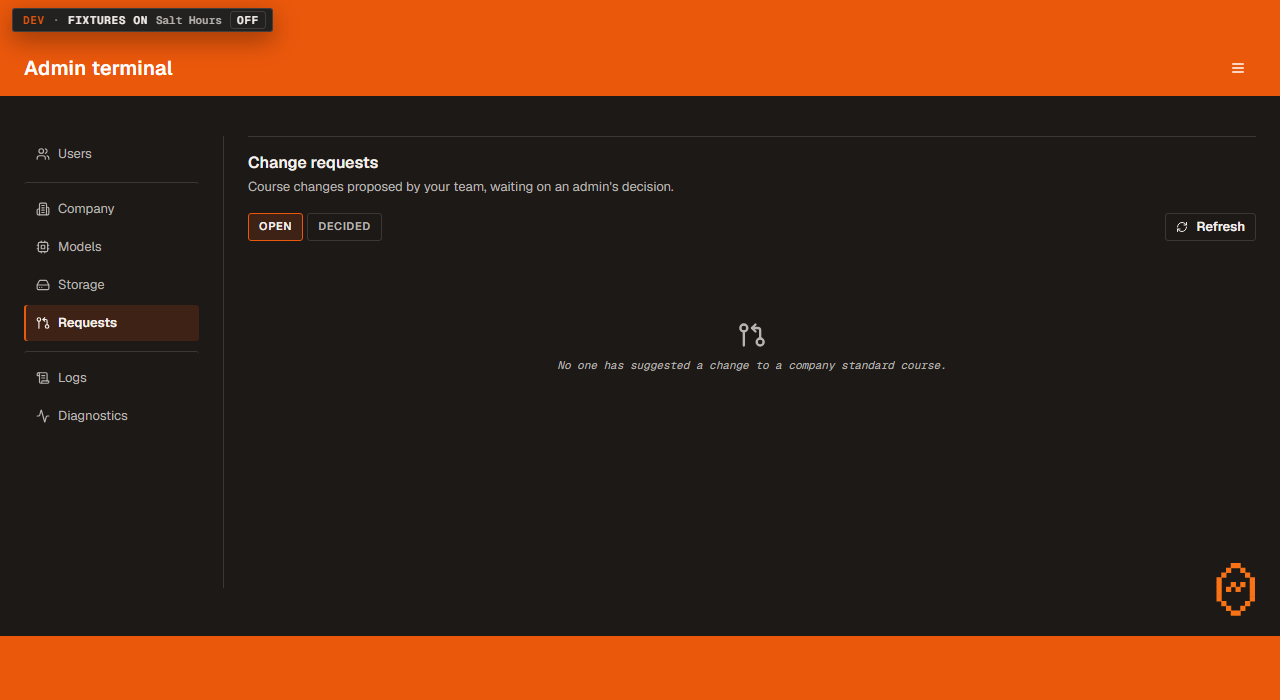
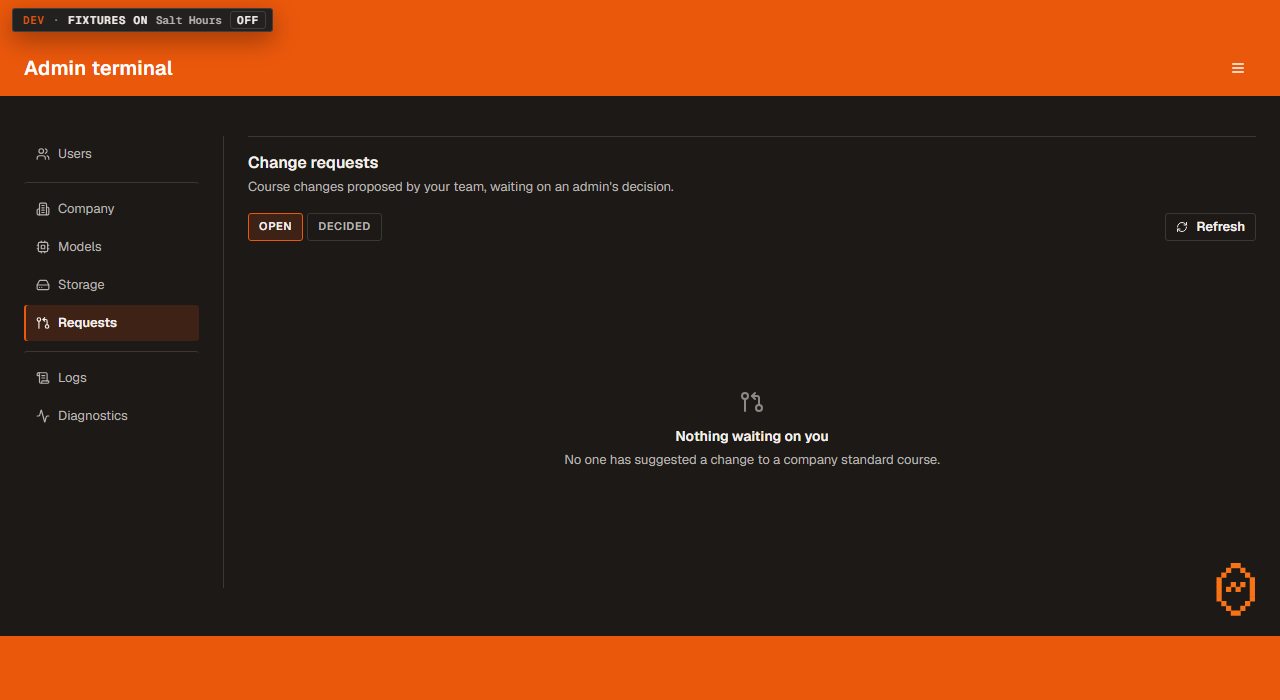
docs(c3b): round two in the hand-off, the kit requests, and the closing state
Round two's section says the useful thing plainly: the worst defect of the
session was found inside a fix, sitting under four green tests, and the
walkthrough was telling Audrey the opposite in as many words. It also records
the fifteen corrections it confirmed as good with measurements, which is as
much use to the next session as the findings.

Three kit requests come out of it, each with its one-line fix: `.ui-th-label`
cannot ellipsise because `overflow` does not apply to an inline box, so a
clipped header reads as a rendering fault; a small `Select` loses its arrow
clearance to a padding shorthand that outranks it; and `Badge` has no size
that fits a control inside it.

§10 states what the next session most needs to know before trusting a green
run: eight of the twelve commits are fixes to the conversion, and not one of
them came from the test suite. They came from driving the page, from the
plan's own grep audit, and from two reviewers measuring.

Changed region(s): [[0.4375, 0.6, 0.7188, 0.69], [0.4375, 0.51, 0.75, 0.54], [0.5625, 0.45, 0.5938, 0.48]]

diff --git a/WILSON/docs/sessions/handoffs/ui-c3b-2026-09-12.md b/WILSON/docs/sessions/handoffs/ui-c3b-2026-09-12.md
@@ -29,23 +29,31 @@ b45b2f8  test(admin): the render tests C3 owed — the state attributes carry th
 ae53503  fix(admin): the last four sub-floor sizes, and a guard that keeps the floor
 280c9d3  fix(admin): Enter stopped submitting the create-user dialog
 a2ad448  fix(admin): review round one — five unreadable or dropped states, and four guards that could not see them
+3c20524  fix(admin): three sections had a scroll container inside a scroll container
+98148a3  fix(admin): the mono was still the face of twelve messages and paragraphs
+e4f2619  fix(admin): review round two — a password could be lost in one action, and four guards it walked straight through
+d12a74d  test(admin): the create-user keyboard path, split across the two environments
 ```
+plus two docs commits and this file.
 
-Four of the six commits are fixes to the conversion, and every one of those
-four came from driving the page or from a reviewer measuring it. None came
-from the test suite, which was green at each point.
+🚨 **Eight of the twelve are fixes to the conversion, and not one of them came
+from the test suite**, which was green before and after each. They came from
+driving the page, from the plan's own grep audit, and from two reviewers
+measuring. The suite's job here turned out to be holding the fixes, not
+finding the defects — which is worth knowing before trusting a green run on
+the next bundle.
 
 ---
 
 ## 2. State, measured
 
-- **vitest: 2710 passed / 137 files**, `CI=true npx vitest run`.
+- **vitest: 2720 passed / 137 files**, `CI=true npx vitest run`.
   C3 closed at 2605 / 136; F3 integrated at 2694 / 136. This session adds
   `adminTerminalState.test.jsx` — 18 tests, the 137th file — and rewrites
-  `adminTerminalCss.test.js` from 66 to 64. The rewrite is not a loss of
+  `adminTerminalCss.test.js` from 66 to 71. The rewrite is not a loss of
   coverage: the 35 pinned colour literals it carried belonged to a sheet that
-  now has none, and they are replaced by four C8 assertions plus four guards
-  round one proved were needed. The pair count fell from 19 to 15 because
+  now has none, and they are replaced by C8 assertions plus the guards the two
+  review rounds proved were needed. The pair count fell from 19 to 15 because
   five of those states moved into the kit, where a component test holds each.
 - **Run WITHOUT `.env.local`** (`mv .env.local .env.local.aside; CI=true npx
   vitest run; mv .env.local.aside .env.local`): **green**, re-run at the head.
@@ -370,9 +378,25 @@ copy, and whether anything stopped responding.
   on presence will paint on a `String(false)`. Either the kit should key on
   `[data-x='true']` throughout, or `Row` should coerce. Twelve selectors are
   affected (`grep -o "\.ui-[a-z-]*\[data-[a-z-]*\]" src/index.css`).
-- **`Badge` has no size below its default**, so the department chips'
-  remove-button sits slightly proud of the label. Cosmetic, not filed as a
-  defect.
+- **`Badge` has no size below its default.** `.ui-badge` is 20px tall and the
+  smallest `IconButton` is 28px, so a remove control mounted inside a badge —
+  the department chips — grows the row unless the page gives it its own box,
+  which this one now does. A `sm` badge, or an `xs` icon button, retires that.
+- **`.ui-th-label` cannot ellipsise.** It is `display: inline` with
+  `overflow: hidden; text-overflow: ellipsis`, and neither property applies to
+  a non-replaced inline box. A clipped table header is therefore cut mid-word
+  with no ellipsis, which reads as a rendering fault rather than as a narrow
+  column — it is how round two's `RATE ACCESS` clip presented. `display:
+  inline-block` plus `max-width: 100%`, or `min-width: 0` on a flex `.ui-th`.
+- **A small `Select` loses its arrow clearance.**
+  `.ui-input[data-size="sm"] { padding: 0 8px }` is (0,2,0) and
+  `select.ui-input { padding-right: 28px }` is (0,1,1), so the shorthand wins
+  and the chevron sits on the last character — about 1px of clearance on
+  "All severities". Scoped locally here as
+  `.at-section select.ui-input[data-size="sm"]`; the kit fix is
+  `select.ui-input[data-size="sm"] { padding-right: 28px }`, or longhands in
+  the sm rule.
+
 
 **Not a request, a note for lane B:** `binUi.jsx` is untouched.
 
@@ -490,9 +514,103 @@ Two findings were recorded rather than fixed, both correctly scoped out:
 **56 sites of body copy at the 11px Label step** in the two files Track A and
 Track C own, and the residual kit requests in §6.
 
+### Round two — it attacked round one's corrections in the running app, and broke four of the guards
+
+Round two was told to verify by driving the page, not by reading, because
+round one had already shown that reading the diff again finds nothing. It
+built its own isolated snapshot of the tree on a separate port when it noticed
+this session still committing under it, which is the right instinct and is why
+its numbers are trustworthy.
+
+It confirmed **fifteen** of round one's corrections as good, with measurements
+— the re-inked Storage banners at 11.90:1, the quota meter's two states at
+8.52 and 4.54, the overridden caption at 7.09, the search field rendering at
+260px instead of 204, the page capping at 1288 and the table saturating at
+1016, the menu reopening immediately after all four ordinary dismissals. That
+list is as useful as the findings.
+
+**🚨 The worst defect of the whole session was found here, in a fix.**
+
+`CredentialsPopup`'s gate opened on **any** copy, including the username —
+which is the top row, and the obvious first click. Copy the username, press
+Escape once, and a show-once password was gone for good. The four gate tests
+round one added all exercised the nothing-copied branch, so a real data-loss
+path sat under four green tests, and `docs/walkthroughs/27_ui_admin_terminal.md`
+told Audrey in as many words that "nothing can lose you a password in one
+action". The gate is keyed to the password now, three tests cover the branch
+the first four missed, and the walkthrough says what happened.
+
+The other three HIGHs were all round-one corrections that did not reach:
+
+| | |
+|---|---|
+| The toolbar gutter fix | missed `UsersSection`, the one section of seven whose root was not `.at-section` — and the one an admin lands on. Measured: contents at 348 against a title at 324. |
+| The menu's mousedown flag | replaced a 300ms dead button with an **indefinite** one. A mousedown on a button is not a promise of a click on it; press-and-slide-off, the universal cancel gesture, left it armed through a section hop and back. Any click clears it now, verified on all five paths in the app. |
+| The roster rebalance | fixed Joined and newly broke Role, the RATE ACCESS header and Status. |
+
+**The roster could not be fixed by rebalancing at all**, and that is the
+useful part. Measured against the longest real string in each column, the six
+minimums sum to about 101 percent of the 752px the table gets with the panel
+open. Two rounds of percentages moved the clip around. It declares a
+`min-width` now and the kit's scroller takes over below it — verified at
+1280 with the panel open: table 860, scroller 734, scrolls sideways, and no
+cell clips including an injected `Deactivated`.
+
+**All four of round one's new guards were evadable, and it proved each one by
+reintroducing the defect and running the suite green.** Every evasion is now
+caught, and two of the repairs needed a second attempt:
+
+- The colour scan matched single quotes and whole tokens only, so `"#9a3412"`
+  walked through — and so did `border: '1px solid #9a3412'`, the exact shape
+  of the style object C3's own first review tripped over. 🚨 **The obvious
+  repair, pairing quotes properly, was ALSO green against the same mutation**:
+  these files are CRLF and full of apostrophes in prose, so a quote matcher
+  mispairs immediately and every offset after it is fiction. It is a flat scan
+  now, which is the honest check when no colour literal is legitimate at all.
+- The orphan-value scan matched double-quoted literals only; `data-tone`
+  returned as `='chip'` and `={'chip'}`.
+- The unparsed-`style=` check sat **behind** the class filter, so an element
+  with no `at-*` class was invisible — which is exactly the shape of the
+  defect it guards, since the pickers were killed by inline colours on
+  Tailwind-classed children. It runs first now. A partial revert (two of five
+  spans) still slipped past the class-based check, so a countable invariant
+  covers that: two pickers, two labels, two blurbs, two icons.
+- The textarea test asserted that the form has no textarea — a fact about
+  today's markup. Deleting the clause it is named for left it green.
+
+Round two's MEDIUM and LOW findings were all taken: the disabled ink on an
+active picker at 3.88:1, the quota meter's invisible trough at 1.00:1 against
+its own card, the decide panel's 1.51:1 hairline (it takes the signal edge
+now), and a three-column table skeleton standing in for a one-column card
+list.
+
+One kit request came out of it and is in §6: `.ui-th-label` is `display:
+inline` with `overflow: hidden; text-overflow: ellipsis`, which does not apply
+to a non-replaced inline box — so a clipped table header truncates with no
+ellipsis, which is why the RATE ACCESS clip read as a rendering glitch rather
+than as a narrow column.
+
 ---
 
 ## 9. Auto-memory: none
 
 This worktree's memory folder is its own and empty, and the main repo's is
 not this session's to edit. This file is the memory; every lesson is in §5.
+
+---
+
+## 10. Closing state
+
+- Branch `ui/c3b-admin` pushed to origin, twelve commits.
+- `feat/ui-overhaul` fast-forwarded to this branch's head.
+- **vitest 2720 / 137 files**, green with and without `.env.local`.
+  `npx vite build` clean but for the two pre-existing warnings.
+- Both review rounds closed. Round one's corrections are in `a2ad448`; round
+  two's are in `e4f2619` and `d12a74d`. Every evasion either round
+  demonstrated has been re-run against the repaired guard and now fails.
+- Screenshots re-taken after the last fix, not before it — the first set was
+  captured six commits early and showed defects two of which the reviewers
+  then found in it.
+- No chip spawned; the controller sequences lane C.
+- Dev server on 5221 stopped; Browser pane viewport reset.
+- Last command: `git checkout --detach`.
